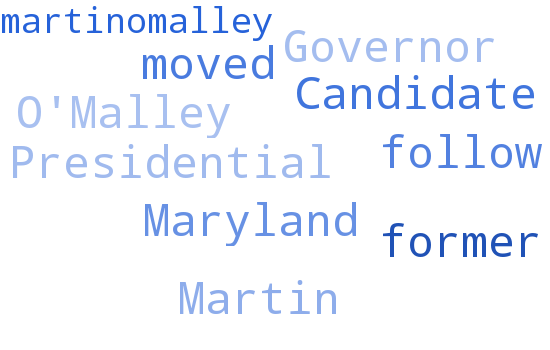
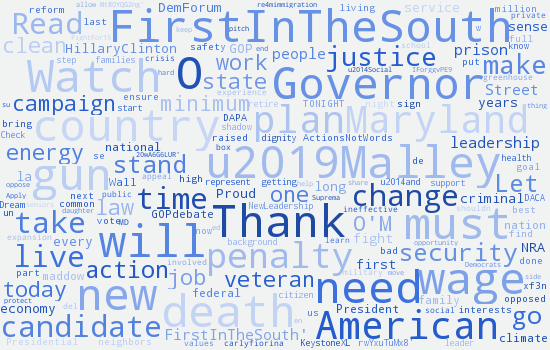
changed make_wordclouds.py to set background color according to background on index.html (by even/odd alphabetical order of Candidate.last_name)

diff --git a/make_wordclouds.py b/make_wordclouds.py
@@ -46,7 +46,8 @@ inpath = 'static/bw_pngs/'
 outpath = 'static/wordcloud_pngs/'
 
 # Querying candidates to get parties so we can use custom colors for different parties.
-candidates = Candidate.query.all()
+# candidates = Candidate.query.all()
+candidates = Candidate.query.order_by(Candidate.last_name).all()
 
 # Color customizations
 def blue_color_func(word, font_size, position, orientation, random_state=None, **kwargs):
@@ -56,9 +57,13 @@ def red_color_func(word, font_size, position, orientation, random_state=None, **
     return "hsl(0, 69%%, %d%%)" % random.randint(27, 80)
 
 
-# This is to generate wordclouds super-imposed on the cadidates' faces.
+# This is to make backgrounds appropriate colors
+index = 1
+
 for c in candidates:
 	text = open('static/txt/'+str(c.id)+'.txt', 'r').read()
+	# This is to generate wordclouds super-imposed on the cadidates' faces.
+
 	# img = Image.open(inpath+str(c.id)+'.png')
 	# img = img.resize((490,540), Image.ANTIALIAS)
 	# hcmask = np.array(img)
@@ -67,7 +72,11 @@ for c in candidates:
 	# wordcloud.to_file(outpath+str(c.id)+'_wordcloud.png')
 
 # Making block word clouds (not masked).
-	wordcloud = WordCloud(background_color="white", margin=1, max_font_size=45, max_words=175, width=550, height=350, prefer_horizontal=1.0, stopwords=STOPWORDS)
+	if index%2 != 0:
+		background_color = "white"
+	else:
+		background_color = "#F1F2F2"
+	wordcloud = WordCloud(background_color=background_color, margin=1, max_font_size=45, max_words=175, width=550, height=350, prefer_horizontal=1.0, stopwords=STOPWORDS)
 	wordcloud.generate(text)
 	if c.party == 'Republican Party':
 		print c.party
@@ -76,6 +85,7 @@ for c in candidates:
 		print c.party
 		wordcloud.recolor(color_func=blue_color_func, random_state=3)
 	wordcloud.to_file(outpath+str(c.id)+'_block_wordcloud.png')
+	index += 1
 
 
 # Make Liberty Bell / Constitution word cloud.

diff --git a/db_helper.py b/db_helper.py
@@ -9,7 +9,7 @@ db.create_all()
  # about the candidates.
 
 hillaryclinton = Candidate('Hillary', 'Clinton', 'New York', 'Democratic Party', 'hillaryclinton.com', 'http://www.facebook.com/hillaryclinton', 'HillaryClinton')
-martinomalley = Candidate("Martin", "O'Malley", "Maryland", "Democratic Party", "martinomalley.com", "http://www.facebook.com/MartinOMalley", "GovernorOMalley")
+martinomalley = Candidate("Martin", "O'Malley", "Maryland", "Democratic Party", "martinomalley.com", "http://www.facebook.com/MartinOMalley", "MartinOMalley")
 berniesanders = Candidate("Bernie", "Sanders", "Vermont", "Democratic Party", "berniesanders.com", "http://www.facebook.com/berniesanders", "SenSanders")
 jebbush = Candidate("Jeb", "Bush", "Florida", "Republican Party", "jeb2016.com", "http://www.facebook.com/jebbush", "JebBush")
 bencarson = Candidate("Ben", "Carson", "Florida", "Republican Party", "bencarson.com", "http://www.facebook.com/DrBenjaminCarson", "RealBenCarson")
